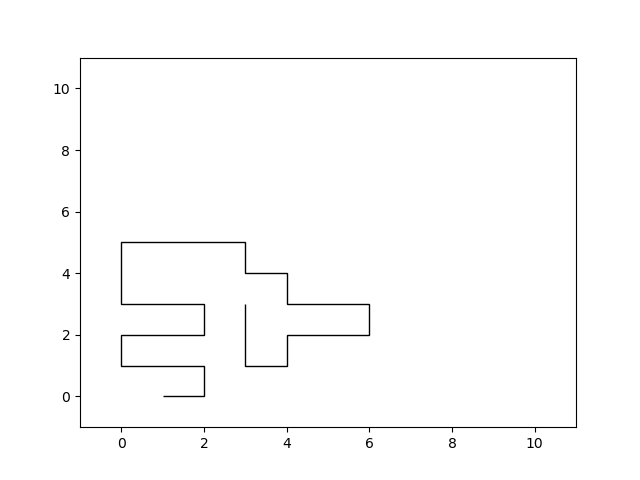
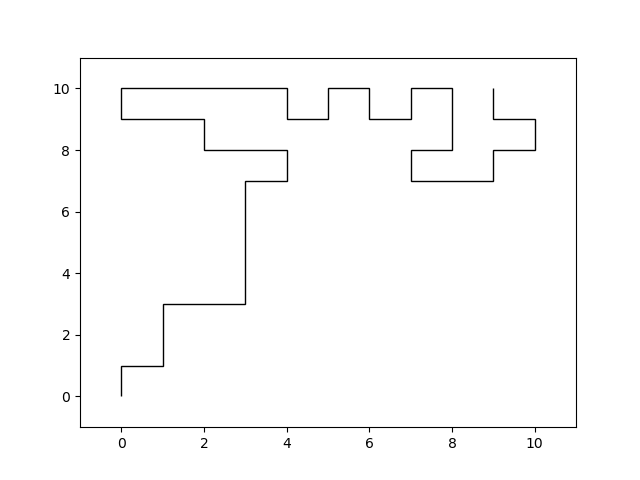
blah

diff --git a/problem2.py b/problem2.py
@@ -15,13 +15,12 @@ SAWSample = namedtuple('SAWSample', \
 
 #method 1 of computing px
 def draw_SAW_samples0(batch):
-    saw = SAW(10)
     attempts = 0
     samples = []
     fin_samples = []
     for b in range(batch):
+        saw = SAW(10)
         px = 1
-        saw.reset()
         attempts += 1
         while saw.getNumValidMoves() > 0:
             px *= saw.getNumValidMoves()
@@ -29,17 +28,19 @@ def draw_SAW_samples0(batch):
         if saw.pos == point(10,10):
             fin_samples.append(SAWSample(px/attempts, saw.length,copy.deepcopy(saw.history)))
             attempts = 0
+        
+            with open('problem2/path0/fin_max_length{}.pkl'.format(0),'wb') as f:
+                pickle.dump(saw.history,f)
         samples.append(SAWSample(px,saw.length, copy.deepcopy(saw.history)))
     return samples, fin_samples
 #method 2 of computing px (epsilon)
 def draw_SAW_samples1(batch):
-    saw = SAW(10)
     epsilon = 1e-8
     attempts = 0
     samples = []
     fin_samples = []
     for b in range(batch):
-        saw.reset()
+        saw = SAW(10)
         px = 1
         attempts += 1
         while saw.getNumValidMoves() > 0:
@@ -50,18 +51,20 @@ def draw_SAW_samples1(batch):
         if saw.pos == point(10,10):
             fin_samples.append(SAWSample(np.prod(px)/attempts, saw.length,copy.deepcopy(saw.history)))
             attempts = 0
+
+            with open('problem2/path1/fin_max_length{}.pkl'.format(0),'wb') as f:
+                pickle.dump(saw.history,f)
         samples.append(SAWSample(np.prod(px),saw.length, copy.deepcopy(saw.history)))
     return samples, fin_samples
 
 #method 3 of computing px (epsilon)
 def draw_SAW_samples2(batch):
-    saw = SAW(10)
     epsilon = 1e-8
     attempts = 0
     samples = []
     fin_samples = []
     for b in range(batch):
-        saw.reset()
+        saw = SAW(10)
         px = 1
         attempts += 1
         epsilon=1e-8
@@ -72,9 +75,12 @@ def draw_SAW_samples2(batch):
             px *= saw.getNumValidMoves()/(1-epsilon)
             saw.randomMove()
         if saw.pos == point(10,10):
-            fin_samples.append(SAWSample(np.prod(px)/attempts, saw.length,copy.copy(saw.history)))
+            fin_samples.append(SAWSample(np.prod(px)/attempts, saw.length,saw))
             attempts = 0
-        samples.append(SAWSample(np.prod(px),saw.length, copy.copy(saw.history)))
+        
+            with open('problem2/path2/fin_max_length{}.pkl'.format(0),'wb') as f:
+                pickle.dump(saw.history,f)
+        samples.append(SAWSample(np.prod(px),saw.length,saw))
     return samples, fin_samples
 def continue_SAW_sample3(saw,px,attempts,split):
     saw = copy.deepcopy(saw) 

diff --git a/draw_path.py b/draw_path.py
@@ -3,10 +3,11 @@ from matplotlib.path import Path
 import matplotlib.patches as patches
 import pickle as pkl
 fn = 0
-seed = 492#1269#13596
-path_fname  = 'problem2/path{}/max_length{}.pkl'.format(fn,seed) 
+seed = 0
+path_fname  = 'problem2/path{}/fin_max_length{}.pkl'.format(fn,seed) 
 with open(path_fname,'rb') as f:
-    path = pkl.load(f)
+    saw = pkl.load(f)
+path = saw
 print(len(path))
 path = Path(path)
 fig = plt.figure()
@@ -15,4 +16,4 @@ patch = patches.PathPatch(path, facecolor='white')
 ax.add_patch(patch)
 ax.set_xlim(-1,11)
 ax.set_ylim(-1,11)
-plt.savefig('figures/{}_path.png'.format(fn))
+plt.savefig('figures/fin_{}_path.png'.format(fn))

diff --git a/SAW.py b/SAW.py
@@ -22,6 +22,7 @@ class SAW:
         self.history = []
     def randomMove(self):
         p = self.pos
+        self.history.append(p)
         self.grid[p.x,p.y] = True #set current pos as traveled
         directions = []
         #right
@@ -38,7 +39,6 @@ class SAW:
             directions.append(point(p.x,p.y+1))
         if len(directions) > 0:
             self.pos = directions[np.random.randint(len(directions))]
-            self.history.append(self.pos)
             self.length += 1
     
     def getNumValidMoves(self):
